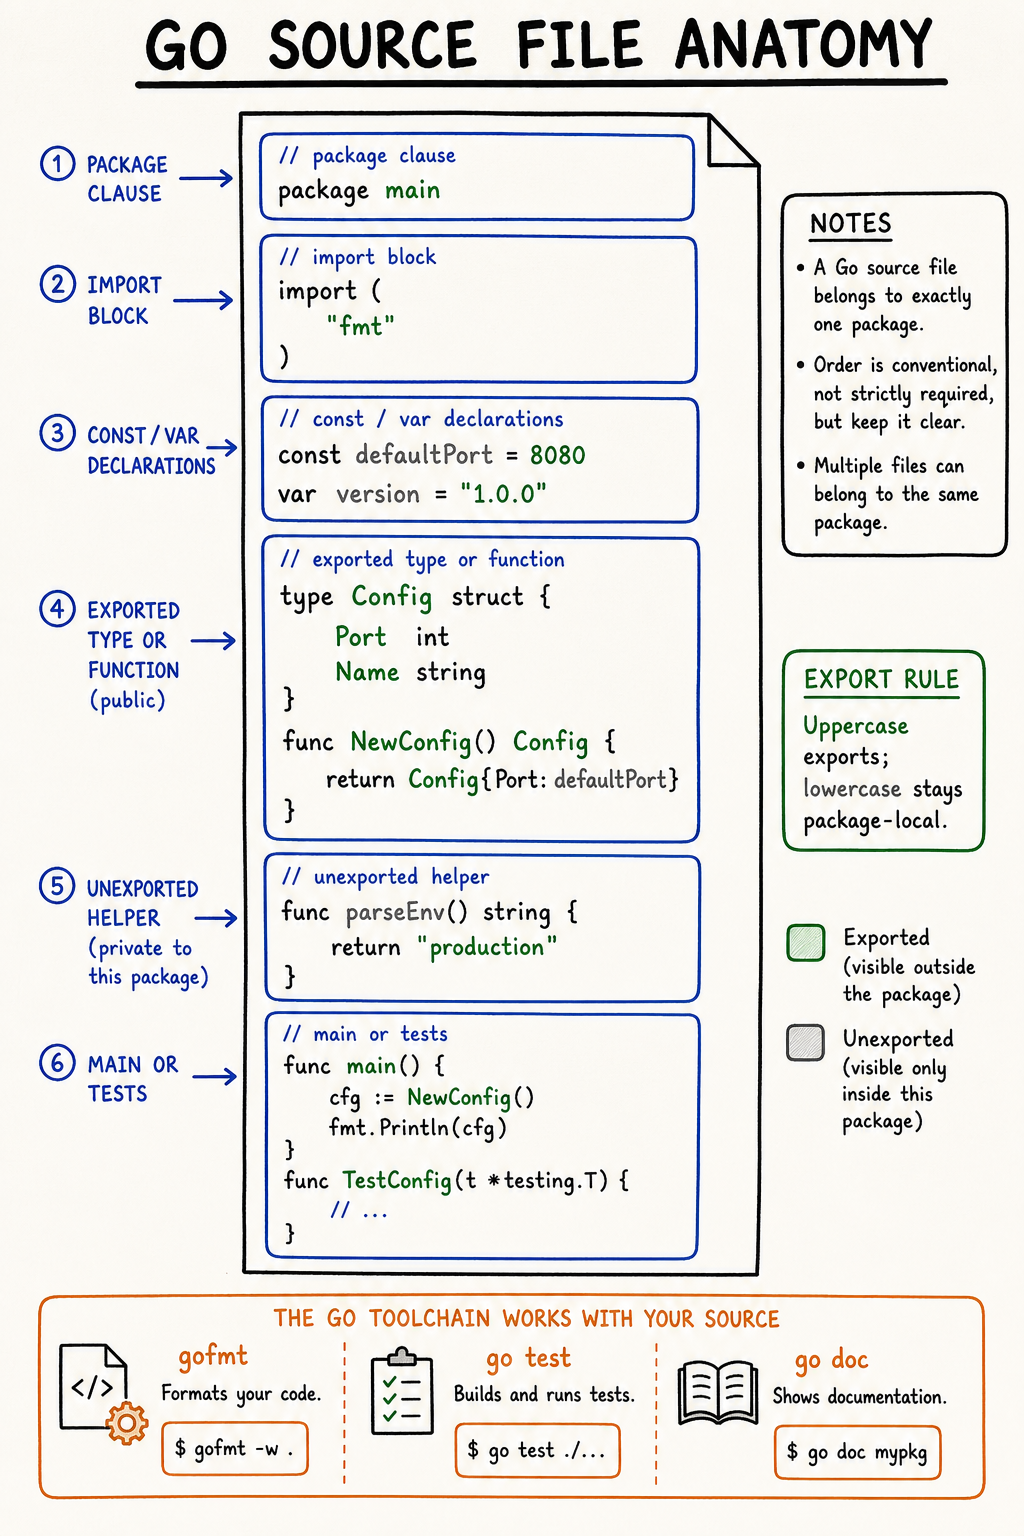
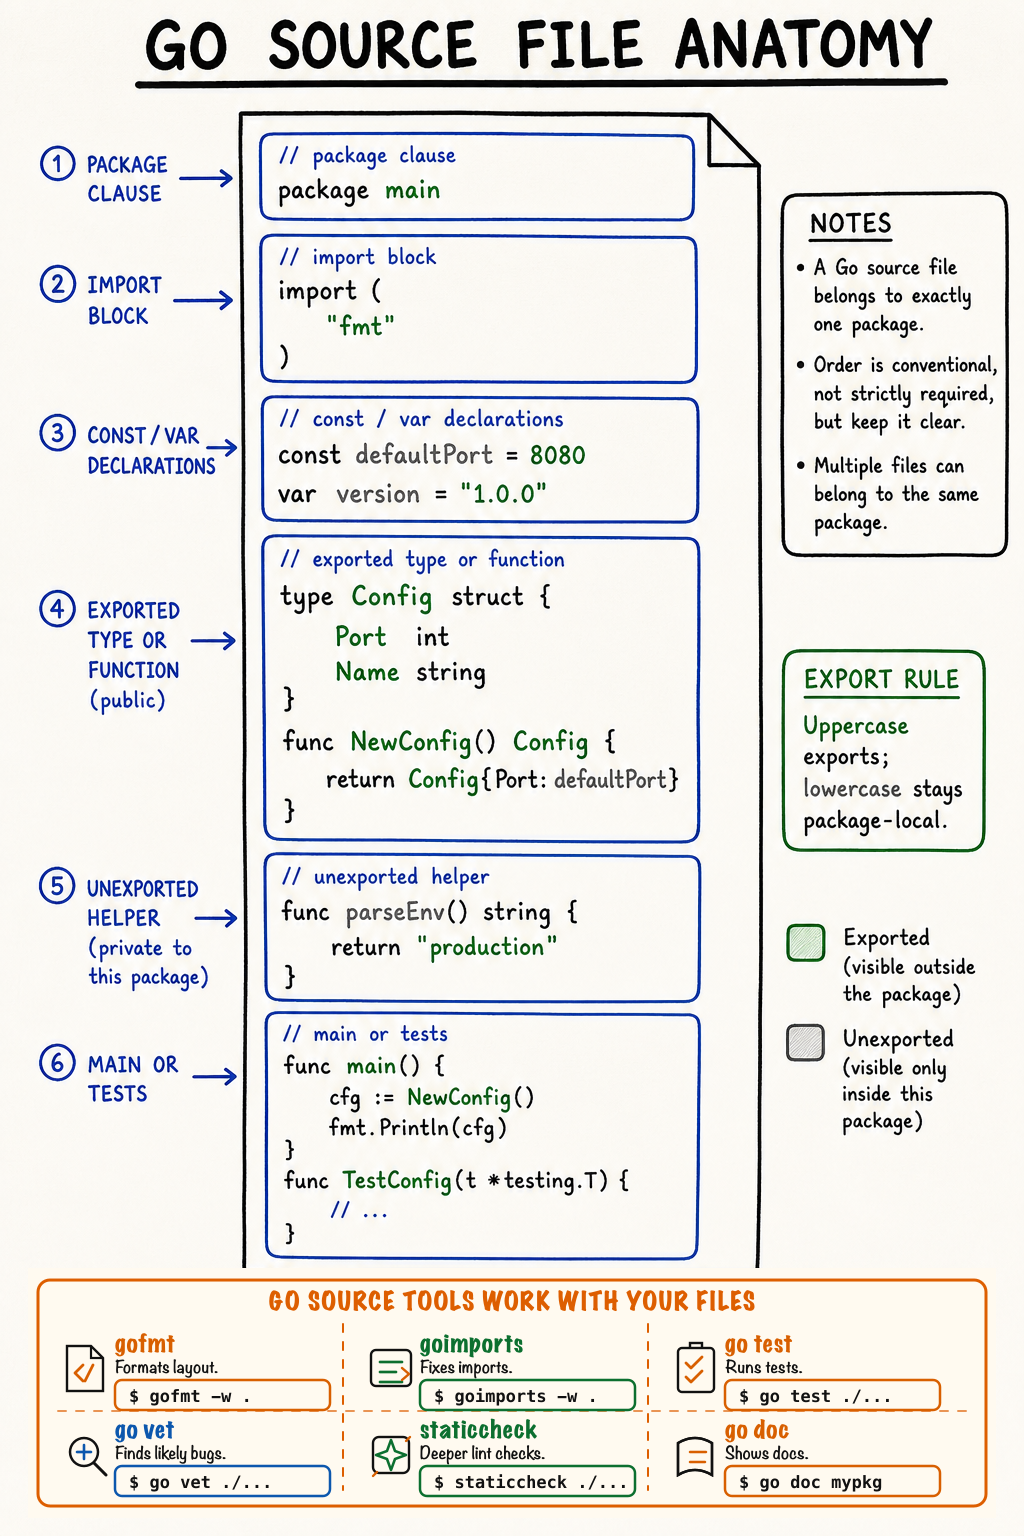
Enhance

Changed region(s): [[0.0312, 0.8125, 0.9688, 1.0]]

diff --git a/src/course.ts b/src/course.ts
@@ -128,11 +128,11 @@ export const diagrams: DiagramAsset[] = [
   {
     id: "source-file",
     title: "Go Source File Anatomy",
-    alt: "Hand-drawn diagram showing package declaration, imports, constants, functions, and exported versus unexported names in a Go source file.",
+    alt: "Hand-drawn diagram showing package declaration, imports, constants, functions, exported versus unexported names, and source tools such as gofmt, goimports, go test, go vet, staticcheck, and go doc.",
     caption:
-      "A Go file reads top-down: package, imports, declarations, then small functions and methods.",
+      "A Go file reads top-down: package, imports, declarations, then small functions and methods. Source tools format, check, test, and document it.",
     transcript:
-      "The diagram separates package clause, import block, constants, exported symbols, unexported helpers, and main or test entry points.",
+      "The diagram separates package clause, import block, constants, exported symbols, unexported helpers, and main or test entry points. The bottom tool band lists gofmt -w ., goimports -w ., go test ./..., go vet ./..., staticcheck ./..., and go doc mypkg.",
   },
   {
     id: "string-runes",
@@ -261,7 +261,7 @@ export const courseModules: CourseModule[] = [
     level: "beginner",
     title: "Files, Packages, Imports, and Tooling",
     summary:
-      "Start by reading Go the way the toolchain reads it: package first, imports next, declarations after that, and simple commands for running, testing, and documenting code.",
+      "Start by reading Go the way the toolchain reads it: package first, imports next, declarations after that, and simple commands for formatting, testing, checking, and documenting code.",
     prerequisites: ["Basic command-line comfort"],
     outcomes: [
       "Recognize executable versus library packages",
@@ -282,6 +282,7 @@ export const courseModules: CourseModule[] = [
               "A Go source file starts with one package clause. That package boundary is the first design decision: it controls visibility, ownership, and how other code imports the file.",
               "Imports and declarations come next. Uppercase names are exported from the package; lowercase names stay package-local. There is no `private` keyword, so naming is part of the API.",
               "Go also keeps files honest by rejecting unused imports and unused local variables at compile time. These are errors, not warnings. The rule keeps code from accumulating dead dependencies and half-finished local state.",
+              "The daily source loop is deliberately mechanical: `gofmt` normalizes layout, `goimports` fixes imports while formatting, `go test ./...` runs tests, `go vet ./...` reports likely mistakes, `staticcheck ./...` adds deeper static analysis, and `go doc` answers API questions. `goimports` and `staticcheck` are ecosystem tools, so install them separately when a project expects them.",
             ],
           },
         ],
@@ -300,6 +301,16 @@ func main() {
     message := "hello, go"
     fmt.Println(message, build)
 }`,
+          },
+          {
+            title: "Daily source tools",
+            summary: "Use formatters, tests, analyzers, and docs as a normal editing loop.",
+            code: `gofmt -w .
+goimports -w .
+go test ./...
+go vet ./...
+staticcheck ./...
+go doc fmt.Println`,
           },
           {
             title: "Unused local variables and imports fail compilation",
@@ -335,8 +346,9 @@ if err != nil {
         mistakes: [
           "Creating Java-style package hierarchies before responsibilities are clear",
           "Exporting names before callers need them",
-          "Hand-formatting code instead of letting `gofmt` settle layout",
+          "Hand-formatting code instead of letting `gofmt` or `goimports` settle layout and imports",
           "Leaving unused imports or local variables and expecting only a warning",
+          "Skipping `go vet` or `staticcheck` because the code already compiles",
           "Using `_` to hide an error that should be handled",
         ],
         checks: [

diff --git a/src/App.tsx b/src/App.tsx
@@ -476,6 +476,13 @@ function OverviewPage({ courseIndex }: { courseIndex: CourseIndex }) {
         </div>
 
         <p className="fine-print">{courseMeta.targetGoVersionDetail}</p>
+        <p className="fine-print">
+          If this course feels hard to digest, try{" "}
+          <a href="https://go.dev/tour/welcome/1" target="_blank" rel="noreferrer">
+            A Tour of Go
+          </a>{" "}
+          first.
+        </p>
 
         <div className="action-row">
           {firstLesson ? (